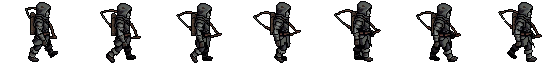
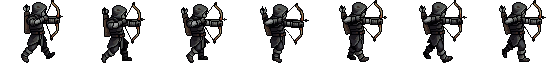
v2.2 — Yaylı yürüyüş 8 yönde de gerçek karelerden
Çaprazlarda yay iki kez çizilmemişti ve o yönler geçici olarak en yakın ana
yönün karelerini kullanıyordu. Asıl sebep bulundu: v3 karakterin DÖNÜŞ
karesinden başlıyor ve elindeki silahı koruyor — kılıcın her yönde sorunsuz
çıkmasının sebebi bu. Yaylı durumun dönüş karesinde yay olmadığı için model
onu her seferinde sıfırdan uydurmak zorunda kalıyordu.

Çözüm: custom_start_frame. Başlangıç karesi olarak saldırı setinden yayın elde
olduğu bir kare veriliyor, böylece yay da "zaten elde" oluyor. Sekiz yönün
hepsi bu yolla yeniden basıldı; YEDEK_YON sözlüğü boşaldı, her yön kendi
karelerinden geliyor ve duruş yönler arasında tutarlı.

Kare atma artık sondan da çalışıyor: kuzey yürüyüşünde yay son iki karede
soluyordu ve animasyon döngü olduğu için her turda bir kez yanıp sönüyordu.
Genişlik aralığı 8 px'den darsa hiç kırpılmıyor — bütün karelerde yay varken
eşik anlamsız kalıp sağlam kareleri atıyordu (yukarı-çaprazda aralık 33..37).

diff --git a/lib/game/data.ts b/lib/game/data.ts
@@ -1,6 +1,6 @@
 /** Oyun surumu. Her yayina cikan degisiklikte 0.1 artar: 0.1, 0.2 ... 0.9,
  *  sonra 1.0, 1.1 diye devam eder. Ekranin sol altinda gorunur. */
-export const SURUM = '2.1';
+export const SURUM = '2.2';
 /** Gelisim asamasi. Oyun oynanabilir ama icerik ve sistemler (item seti, dil
  *  secenegi, masaustu arayuzu) hala eksik - yani alfa. Beta'ya gecisi bu sabit
  *  tasir; surum numarasiyla ayri tutuldu ki 1.x sayimi bozulmasin. */

diff --git a/scripts/v3_anim.py b/scripts/v3_anim.py
@@ -94,6 +94,25 @@ KILIC_VUR_ARKA = ('seen from behind, raises the sword above the head and swings 
                   'viewer or behind the back; the sword is a solid steel blade and '
                   'stays gripped in the hand in every frame')
 
+# BASLANGIC KARESI. v3 karakterin donus karesinden basliyor ve elindeki silahi
+# koruyor - kilicin her yonde cikmasinin sebebi bu. Yayli sette donus karesinde
+# yay YOK, bu yuzden model onu her seferinde yeniden uydurmak zorunda kaliyor ve
+# caprazlarda iki kez basaramadi (asagi-caprazda hic cizmedi, yukari-caprazda
+# kafanin ustune koydu). Cozum: baslangic karesi olarak SALDIRI setinden yayin
+# elde oldugu bir kare verilir; boylece yay kilic gibi "zaten elde" olur.
+# (set, aksiyon, yon) -> (kaynak aksiyon, kaynak yon, kare no)
+BASLANGIC = {('yay', 'Walk', 'south-east'): ('Attack', 'south-east', 2),
+             ('yay', 'Walk', 'north-east'): ('Attack', 'north-east', 5),
+             # Ana yonler de ayni yola cekildi: yay gogus hizasinda capraz
+             # tutuluyordu, capraz yonlerde ise elde. Donerken durus degismesin.
+             ('yay', 'Walk', 'south'): ('Attack', 'south', 2),
+             ('yay', 'Walk', 'east'): ('Attack', 'east', 5),
+             ('yay', 'Walk', 'north'): ('Attack', 'north', 5)}
+YAY_YUR_HAZIR = ('walks forward with a steady stride, legs alternating clearly, while '
+                 'keeping the wooden bow held up in both hands exactly as in the '
+                 'starting pose, ready to shoot; the bow never leaves the hands and is '
+                 'fully visible in every single frame')
+
 # Yon bazli tarif ezmesi: (set, aksiyon, yon) -> tarif
 OZEL = {('kilic', 'Attack', 'east'): KILIC_VUR_YAN,
         ('rauf', 'Attack', 'east'): KILIC_VUR_YAN,
@@ -138,6 +157,20 @@ def uret(setad, sadece_yon=None, sadece_aksiyon=None):
         # Ayni tarif her yonde ayni durmuyor; ozel tarifi olan yonler ayri basilir.
         gruplar = {}
         for y in (sadece_yon or YONLER):
+            if (setad, aksiyon, y) in BASLANGIC:
+                # custom_start_frame tek yon istiyor, bu yuzden ayri basilir.
+                ka, ky, ki = BASLANGIC[(setad, aksiyon, y)]
+                ham64 = base64.b64encode(
+                    open(f'{ham}/{ka}_{ky}_{ki:02d}.png', 'rb').read()).decode()
+                r = pxl.call('/characters/animations', {
+                    'character_id': cid, 'mode': 'v3', 'animation_name': f'{setad}-{aksiyon}',
+                    'action_description': YAY_YUR_HAZIR, 'directions': [y],
+                    'custom_start_frame': {'type': 'base64', 'base64': ham64},
+                    'frame_count': n, 'keep_first_frame': True, 'seed': 21})
+                kuyruk.append((aksiyon, [j for j in (r.get('background_job_ids') or []) if j]))
+                print(f'{setad}/{aksiyon} [{y}] baslangic={ka}_{ky}_{ki:02d}: '
+                      f'{len(kuyruk[-1][1])} is kuyrukta')
+                continue
             gruplar.setdefault(OZEL.get((setad, aksiyon, y), tarif), []).append(y)
         for t, yonler in gruplar.items():
             r = pxl.call('/characters/animations', {

diff --git a/scripts/v3_kur.py b/scripts/v3_kur.py
@@ -60,14 +60,10 @@ SETLER = {
 # elle yazilmiyor: en GENIS bbox'li kare atis anidir (yay + ucan ok).
 ATIS_BASA = {('yay', 'Attack')}
 
-# Yedek yon: model bazi yonlerde silahi bir turlu cizmiyor. Yayli asagi-capraz
-# yuruyusu iki kez basildi, ikisinde de yay cikmadi (bbox 34..40; yayli kare
-# 50+ olurdu). Ucuncu denemeye uretim yakmak yerine en yakin CALISAN yonun
-# kareleri kullanilir - perspektif farki, yayin kaybolmasindan iyi.
-# Yukari-caprazda ise yay kademe kademe yukseliyor ve son karelerde kafanin
-# ustunde boynuz gibi duruyordu; kuzey yuruyusu (ayni sirt gorunumu) saglam.
-YEDEK_YON = {('yay', 'Walk', 'south-east'): 'south',
-             ('yay', 'Walk', 'north-east'): 'north'}
+# Yedek yon: bir yonun kareleri kullanilamazsa en yakin calisan yonunkiler
+# kullanilir. Yayli caprazlar bir sure boyle idare edildi; artik BASLANGIC
+# karesi yontemiyle kendi kareleri var, bu yuzden sozluk bos.
+YEDEK_YON = {}
 
 # keep_first_frame=True karakterin DONUS karesini kare 0 olarak sakliyor; yayli
 # sette o karede yay yok ve model yayi ancak 2-3 kare sonra ciziyor. Sonuc:
@@ -87,14 +83,27 @@ AT_ESIK = 0.30
 EN_AZ_KARE = 4
 
 
+# Genislik araligi bundan darsa hic kirpilmaz: butun karelerde yay varken
+# esik anlamsiz kaliyor ve saglam kareler atiliyordu (yukari-caprazda aralik
+# yalnizca 33..37 px).
+EN_AZ_ARALIK = 8
+
+
 def yaysiz_onu_at(kareler):
-    g = [k.getbbox() for k in kareler]
-    en = [(b[2] - b[0]) if b else 0 for b in g]
+    """Bastan VE sondan silahsiz kareleri atar.
+
+    Sondan da atmak gerekiyor: kuzey yuruyusunde yay son iki karede soluyor,
+    animasyon dongu oldugu icin her turda bir kez 'yanip sonuyor'."""
+    en = [(lambda b: (b[2] - b[0]) if b else 0)(k.getbbox()) for k in kareler]
+    if max(en) - min(en) < EN_AZ_ARALIK:
+        return kareler, 0
     esik = min(en) + (max(en) - min(en)) * AT_ESIK
-    i = 0
-    while i < len(en) - EN_AZ_KARE and en[i] < esik:
+    i, j = 0, len(en)
+    while j - i > EN_AZ_KARE and en[i] < esik:
         i += 1
-    return kareler[i:], i
+    while j - i > EN_AZ_KARE and en[j - 1] < esik:
+        j -= 1
+    return kareler[i:j], i + (len(en) - j)
 
 
 def atisi_basa_al(kareler):
